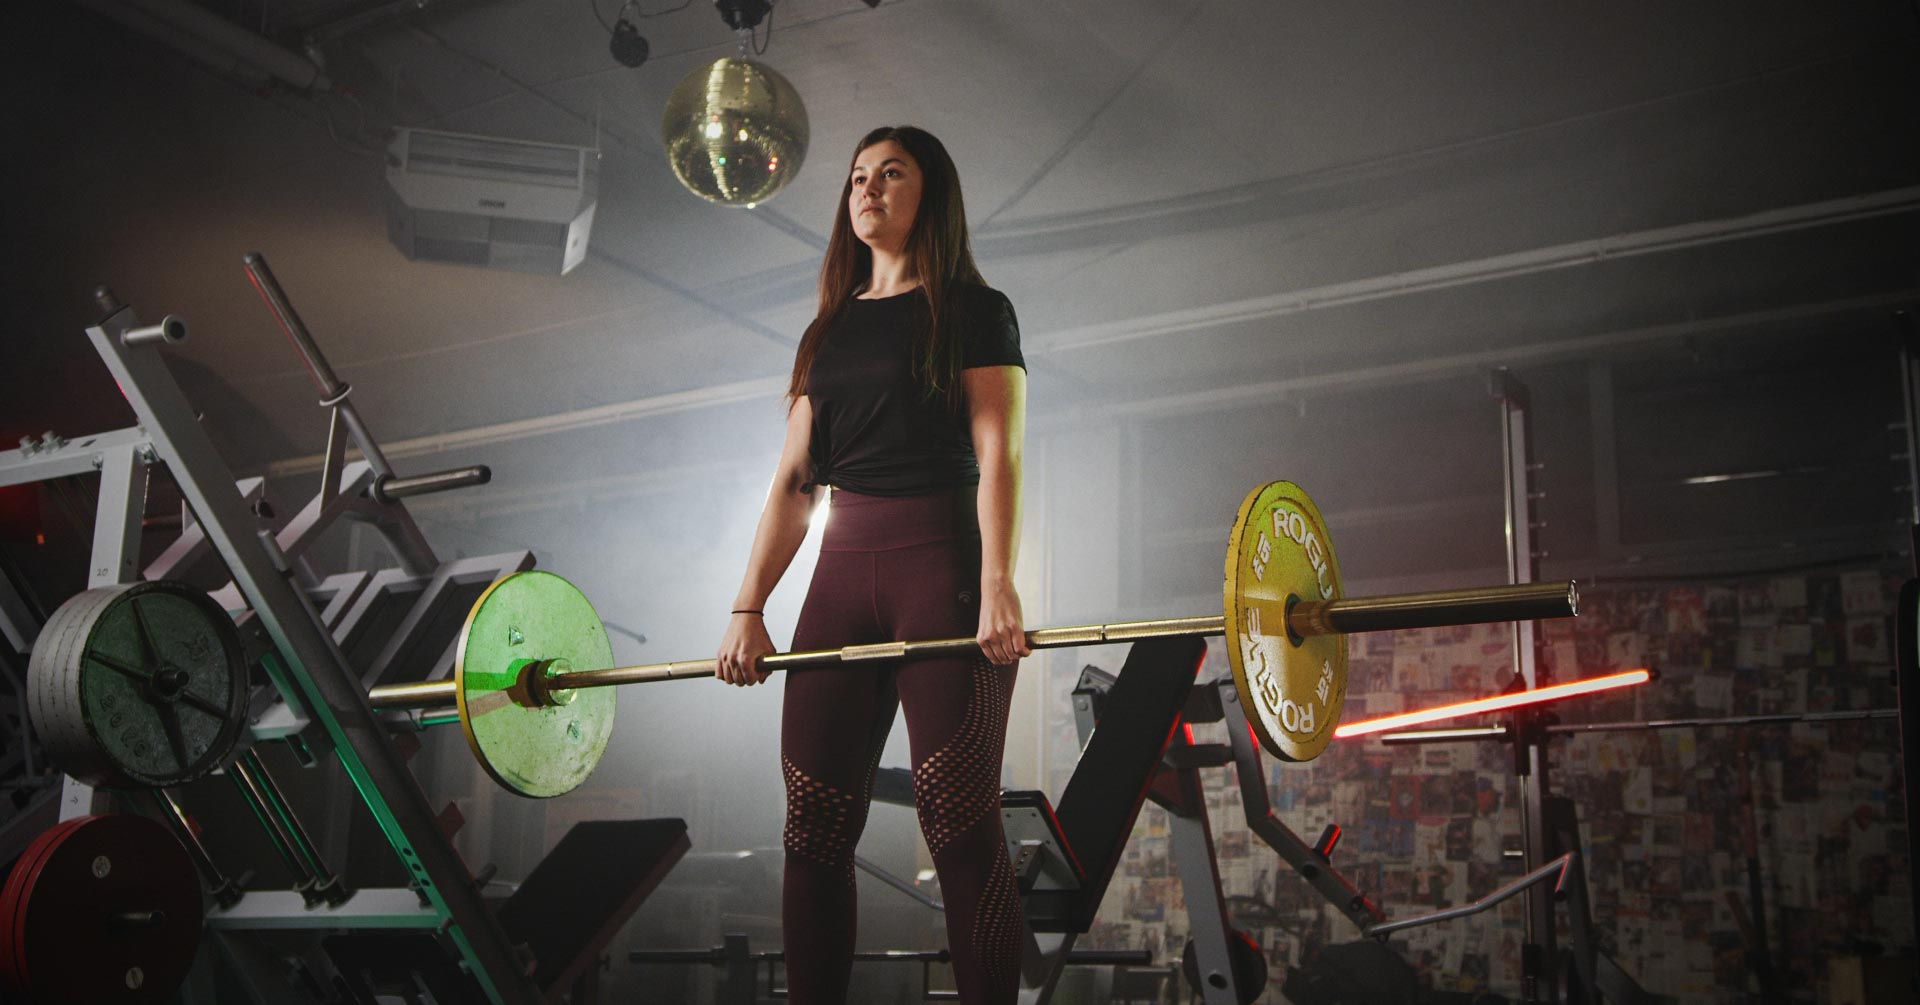
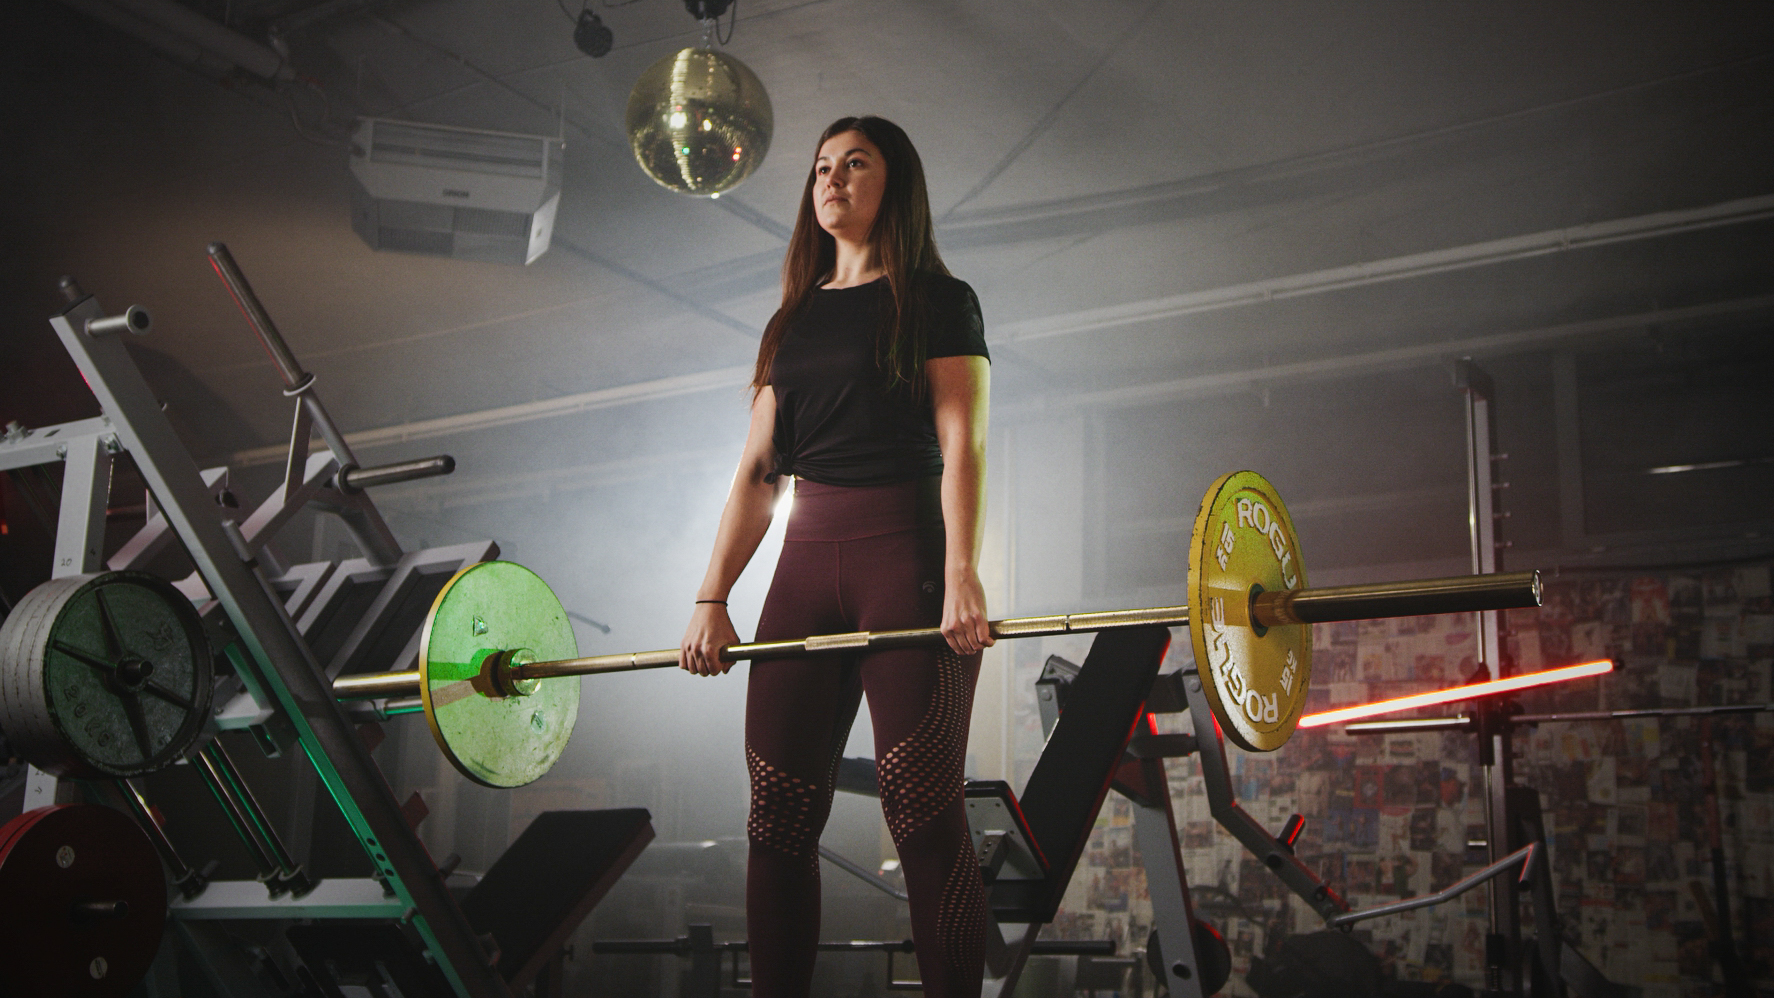
Picture_about + more

diff --git a/style.css b/style.css
@@ -927,13 +927,14 @@ body, html {
 }
 
 .story .story-img {
+	float: left;
+	margin: 0 20px 10px 0;
+	width: 300px;
 	height: auto;
-  width: 80%;
-	margin-bottom: 3rem;
-	margin-top: 5rem;
-	margin-left: 50px;
-	min-width: 300px;
-	max-width: 600px;
+	border-radius: 20px;
+	box-shadow: 0 0 10px rgba(255, 255, 255, 0.1), 0 0 10px rgba(255,255,255,0.1), 0 0 20px rgba(255,255,255,0.1);
+	-webkit-transform: scaleX(-1);
+  transform: scaleX(-1);
 }
 
 .story .story-img img {
@@ -943,7 +944,7 @@ body, html {
 
 .story .story-info {
   width: 80%;
-  text-align: block;
+  text-align: justify;
 }
 
 .story .story-info .story-info-heading {

diff --git a/about.html b/about.html
@@ -32,6 +32,7 @@
 <section id="story" class="story">
   <div class="story-info">
     <h1 class="story-info-heading">The Past</h1><br><br>
+    <img class="story-img" src="about.jpg" alt="">
     <p class="story-info-text">Als ich etwa 14 war begann ich mit dem Kraftsport.<br>
 Ich wusste damals nicht wirklich was ich mache, wichtig war mir nur, dass ich schnell besser aussehe.<br>
 Mit der Zeit begann ich meine Freizeit damit zu verbringen, mich online und mithilfe von Zeitschriften mehr mit dem Thema zu befassen um schnellere Fortschritte zu erzielen.<br>
